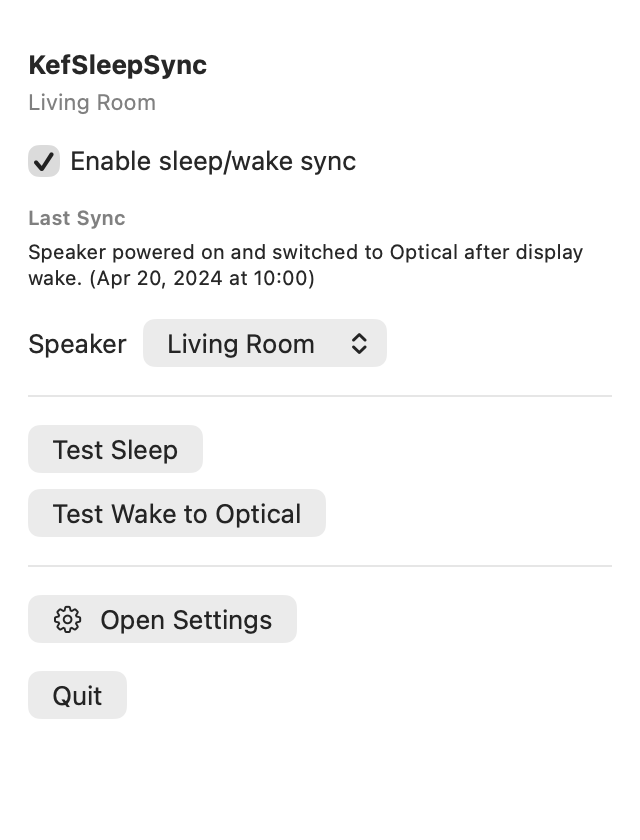
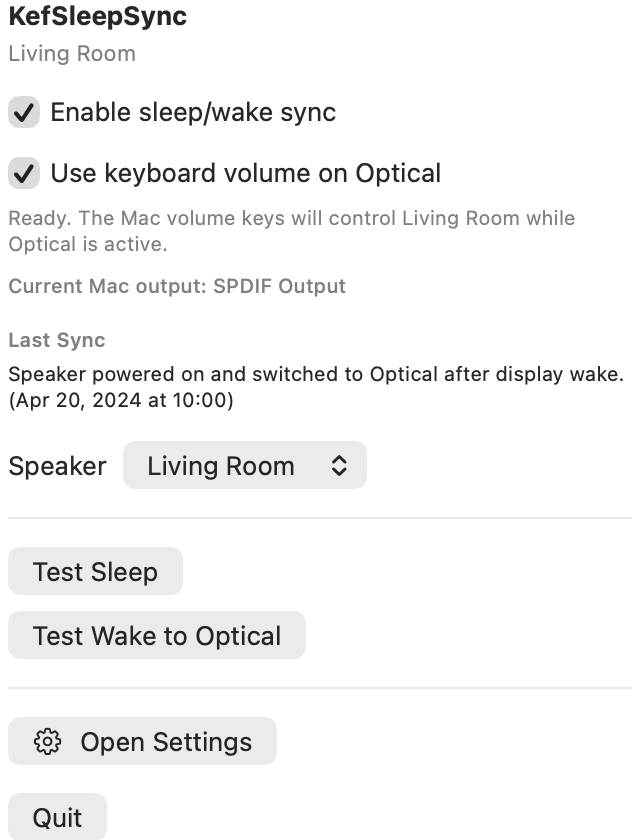
Add keyboard volume screenshot to README

diff --git a/script/render_readme_assets.swift b/script/render_readme_assets.swift
@@ -3,6 +3,47 @@ import SwiftUI
 
 @main
 struct ReadmeAssetRenderer {
+    private struct KeyboardVolumePreviewCard: View {
+        @ObservedObject var model: AppModel
+
+        var body: some View {
+            VStack(alignment: .leading, spacing: 14) {
+                Text("Keyboard Volume")
+                    .font(.headline)
+
+                Toggle(
+                    "Use Mac volume keys for KEF",
+                    isOn: .constant(model.keyboardVolumeControlState.isEnabled)
+                )
+                .disabled(true)
+
+                LabeledContent("Step size", value: model.keyboardVolumeStepDescription)
+                LabeledContent("Current Mac output", value: model.currentMacOutputRouteDescription)
+
+                Text(model.keyboardVolumeStatusMessage)
+                    .font(.caption)
+                    .foregroundStyle(.secondary)
+                    .fixedSize(horizontal: false, vertical: true)
+
+                Text("The keys only override macOS while the selected KEF speaker is on Optical and the Mac is actively using the learned optical output route.")
+                    .font(.caption)
+                    .foregroundStyle(.secondary)
+                    .fixedSize(horizontal: false, vertical: true)
+            }
+            .padding(24)
+            .frame(maxWidth: .infinity, maxHeight: .infinity, alignment: .topLeading)
+            .background(
+                RoundedRectangle(cornerRadius: 18, style: .continuous)
+                    .fill(Color(nsColor: .controlBackgroundColor))
+            )
+            .overlay(
+                RoundedRectangle(cornerRadius: 18, style: .continuous)
+                    .stroke(Color.black.opacity(0.06), lineWidth: 1)
+            )
+            .padding(18)
+        }
+    }
+
     private struct SnapshotSpec<Content: View> {
         let filename: String
         let size: CGSize
@@ -21,6 +62,7 @@ struct ReadmeAssetRenderer {
         try FileManager.default.createDirectory(at: outputDirectory, withIntermediateDirectories: true)
 
         let model = AppModel.makeReadmeDemoModel()
+        let keyboardModel = AppModel.makeReadmeDemoModel()
 
         let snapshots = [
             SnapshotSpec(
@@ -47,6 +89,24 @@ struct ReadmeAssetRenderer {
                             Spacer(minLength: 0)
                         }
                         .frame(width: 320, height: 420)
+                    }
+                )
+            ),
+            SnapshotSpec(
+                filename: "keyboard-volume-preview.png",
+                size: CGSize(width: 560, height: 280),
+                view: AnyView(
+                    ZStack {
+                        LinearGradient(
+                            colors: [
+                                Color(nsColor: .windowBackgroundColor),
+                                Color(nsColor: .underPageBackgroundColor)
+                            ],
+                            startPoint: .topLeading,
+                            endPoint: .bottomTrailing
+                        )
+                        KeyboardVolumePreviewCard(model: keyboardModel)
+                            .frame(width: 560, height: 280)
                     }
                 )
             )

diff --git a/README.md b/README.md
@@ -30,6 +30,10 @@ No third-party frameworks are required.
 
 ![KefSleepSync menu bar popover](./docs/images/menu-preview.png)
 
+### Keyboard volume
+
+![KefSleepSync keyboard volume preview](./docs/images/keyboard-volume-preview.png)
+
 ## Why this exists
 
 KEF speakers can either stay awake and get warm, or rely on their own standby behavior, which does not always line up cleanly with how a Mac wakes, locks, sleeps, or hands audio back to Optical.
